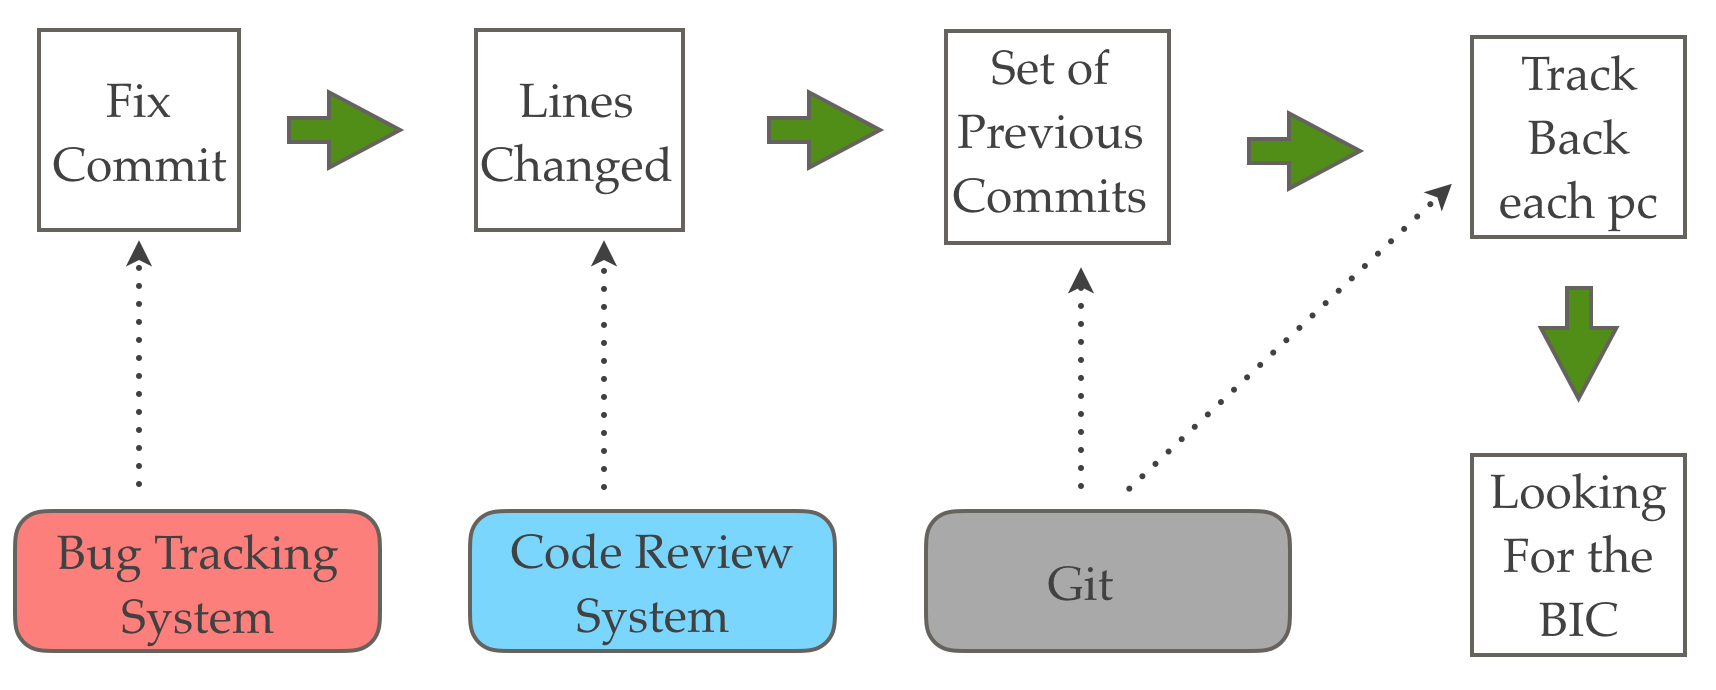
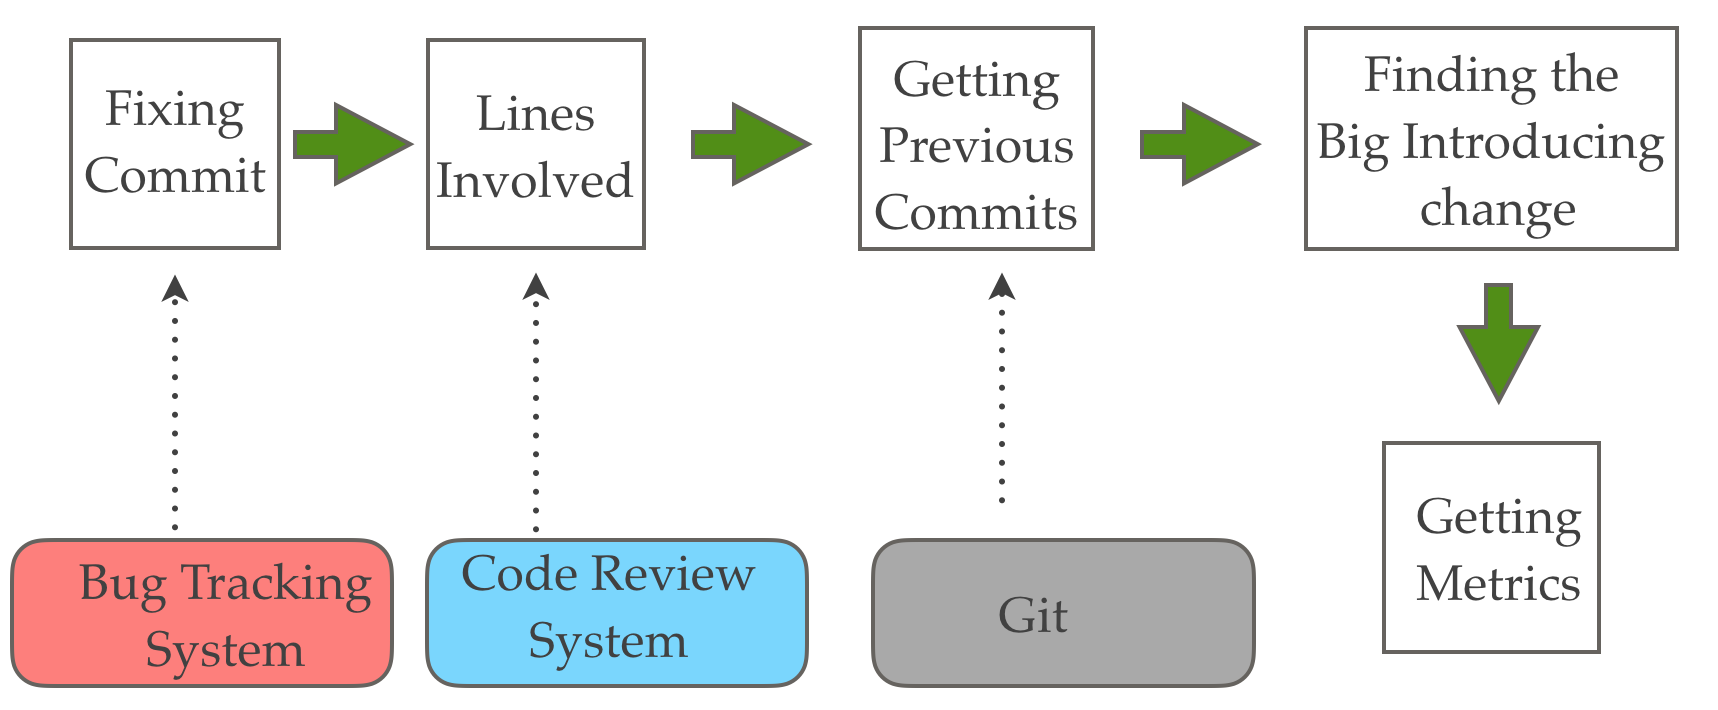
Working on the methodology section

diff --git a/bare_conf.tex b/bare_conf.tex
@@ -479,35 +479,61 @@ Prior studies~\cite{kim2006long} have proposed the \emph{Bug Fixing Time} (BFT),
 
 \section{Methodology}
 \label{sec:methodology}
-In our study the data analyzed was obtained from the source code management (Git\footnote{\url{https://git-scm.com/}}), issue tracking system (Launchpad\footnote{\url{https://launchpad.net/}}) and code review system (Gerrit\footnote{\url{https://www.gerritcodereview.com/}}). Furthermore, GitHub\footnote{\url{https://github.com/}} has been used such as issue tracking system and pull request system. GitHub and Launchpad work with issue reports called tickets, which describe bug reports, feature request, maintenance tickets, and even design discussions. In our study, however we are only interested specifically in those tickets that describe a bug report that has been fixed (i.e., merged into the code source) and closed.
+In our study the data analyzed was obtained from the source code management, issue tracking system and code review system. We will illustrate our methodology in the Figure~\ref{fig:methodology} where the income was a set of bug reports extracted randomly from the issue tracking system. Each white box present a different stage and each narrow indicates the next stage until obtain the value of the metrics. The colored box represents which source is been used to obtain the information required in each stage.
 
-In our study we analyzed bug reports extracted from two different system. 
-To compute the Time To Notify, we need to identify bug introducing changes and their corresponding fixes to be able of measure the time between them. (Example)
-\begin{figure}[ht]
-\centering
-\includegraphics[width=\columnwidth]{metrics.png}
-\caption{metrics}
-\label{fig:graph6}       % Give a unique label
-\end{figure}
+The following list is a detailed description of the stages: 
+\begin{itemize}
+		\item Finding the fixing commit of each bug report.
+		\item Finding the lines that this commit added, modified or deleted to solve the bug.
+		\item For each of those lines extract which commit added, modified or deleted last these lines to obtain the previous commit of each line.
+		\item Analyzed which one of the previous commit was the bug introducing change. In the case of none of them was the cause of the bug, track back each previous commit until find the line causing the failure in some of the antecesor commits.
+		\item Extracting the date when the fixing commit, bug introduction change and bug report was submitted, as well as the author of each one to calculate our metrics.	
+\end{itemize} 
 
 \begin{figure}[ht]
 \centering
 \includegraphics[width=\columnwidth]{methodology.png}
-\caption{methodology}
-\label{fig:graph6}       % Give a unique label
+\caption{The methodology diagram, starting with the analysis of a fix commit and finishing with the value of the metrics}
+\label{fig:methodology}       % Give a unique label
 \end{figure}
-- Explain how locate the BIC and the metrics that we have extracted after the BIC was found.
+
+\subsection{The Metrics}
+To compute all the metrics used in this study, we need to identify the bug introducing change. Once we have it, we are able to measure exactly all the time values we want without any kind of doubt.  
+
+Next, we describe all the metrics under interest in this study. Notice that the value of all this metrics has been calculated in days: 
+\begin{itemize}
+		\item \emph{Experience Until the Bug} (EUB): The time of experience that presents the author of the bug introducing change at the moment of submit such commit to the repository. The experience is measured from the first time that the author committed some code to the project until (s)he introduced the commit with the buggy line.
+		\item \emph{Time To Notify} (TTN): This value measures the time since the commit inserted the bug was merged into he master branch until some developer notified the unexpected behavior and reported it. 
+		\item \emph{Time To Fix} (TTF): It refers to the necessary time to fix a bug. This value is the period from a bug report was opened until it was closed by a fixing commit.
+		\item \emph{Bug Fixing Time} (BFT): It measures the time from the Bug Inserting change date and the fixing commit date. This time is calculated as the addition of the TTN and TTF time.
+\end{itemize} 
+
+The Figure~\ref{fig:metrics} shows when the metric under interest begins and ends. and their corresponding fixes to be able of measure the time between them. (Example)
+
+\begin{figure}[ht]
+\centering
+\includegraphics[width=\columnwidth]{metrics.png}
+\caption{ Span period of the metrics: Experience Until Bug (EUB),  Time To Notify (TTN), Time To Fix (TTF), Bug Fixing Time (BFT) }
+\label{fig:metrics}       % Give a unique label
+\end{figure}
+
+Besides this metrics, we calculate two more metrics related with the Time To Notify a bug which will be used to compare our results with the ones getting after using the SZZ algorithm. Until now, all the values have been calculated using the exactly location of the bug introducing change, but the SZZ algorithm does not locate the precise commit in which the bug was inserted, and also its outcome could be a a set of commits among which the interest commit may or may not be.
+
+To compare how the TTN obtained through SZZ algorithm differ to ours, we describe this two times:
+\begin{itemize}
+	\item \emph{Time To Notify Optimistic} (TTN\_o): It assumes that the bug introducing change was the nearest commit to the bug report date, thus it measures the time has past since such commit was done until the wrong behavior was reported.
+	\item \emph{Time To Notify Pessimistic} (TTN\_p): It assumes that the furthest commit was the bug introducing change, thus it measures the worst time possible until notify the bug.
+\end{itemize}
 
 \section{Evaluation}
 \label{sec:evaluation}
-We have validated our methodology analyzing the tickets from two different projects written in different programming languages. Nova uses a dynamic language whereas ElasticSearch uses a statically language. Thus, we may study the dependency of the results with the programming language that the project is using.
+We have validated our methodology analyzing the tickets from two different projects written in different programming languages. Nova uses a dynamic language whereas ElasticSearch uses a statically language. Thus, we may study the dependency of the Time To Notify with the programming language that the project is using.
 
-In one hand, Nova belongs to OpenStack project which is a cloud computing platform with a huge developing community (more than 5,000 developers) and significant industrial support from several major companies such as Red Hat, Intel, IBM, HP, etc. The source code of Nova is written in Python and was particularly of interest because it is continuously evolving due to its very active community. Currently it has more than 44,000 commits with more than 2 million lines of code and around 1,000 contributors \footnote{\url{http://activity.openstack.org/dash/browser/repository.html?repository=nova.git&ds=scm}}. All its history is saved and available in a version control system\footnote{\url{https://wiki.openstack.org/wiki/Getting_The_Code}}, as well as its issue tracking system (Launchpad\footnote{\url{https://launchpad.net/openstack}}) and the source code review system (Gerrit\footnote{\url{https://review.openstack.org/}}). 
+In one hand, Nova belongs to OpenStack project which is a cloud computing platform with a huge developing community (more than 5,000 developers) and significant industrial support from several major companies such as Red Hat, Intel, IBM, HP, etc. The source code of Nova is written in Python and was particularly of interest because it is continuously evolving due to its very active community. Currently it has more than 44,000 commits with more than 2 million lines of code and around 1,000 contributors \footnote{\url{http://activity.openstack.org/dash/browser/repository.html?repository=nova.git&ds=scm}}. All its code is hosted and available at GitHub\footnote{\url{https://github.com/openstack/nova}} and it works with Git\footnote{\url{https://git-scm.com/}} as the source code management, Launchpad\footnote{\url{https://launchpad.net/}} as the issue tracking system  and  Gerrit\footnote{\url{https://www.gerritcodereview.com/}} as the code review system.
 
-On the contrary, ElasticSearch is a distributed open source search and analytics engine written in Java. In spite of it has less number of commits and contributors than OpenStack, 26,000 commit and 764 contributors, its policy of label an issue as bug report is very strict, thus we could be sure that the tickets analyzed are real bug reports. Furthermore, all its code is hosted at GitHub\footnote{\url{https://github.com/elastic/elasticsearch/}}, as well as its issue list is available on GitHub\footnote{\url{https://github.com/elastic/elasticsearch/issues}}
+On the contrary, ElasticSearch is a distributed open source search and analytics engine written in Java. In spite of it has less number of commits and contributors than OpenStack, 26,000 commit and 764 contributors, its policy of label an issue as bug report is very strict, thus we could be sure that the tickets analyzed are real bug reports. Furthermore, all its code is hosted at GitHub\footnote{\url{https://github.com/elastic/elasticsearch/}} and it  has been used such as issue tracking system and pull request system in this project.
 
-
-For these two projects we analyzed the tickets looking for their trueBIC, trying to determinate if the previous commit to the fix of the ticket is a BIC. The first stage was only used in Nova due to Launchpad does not distinguish bug reports from other issues as ElasticSearch does it with its strong policy of bug label in GitHub. Thus, two different researchers, were involved in this stage, resulting that each ticket was analyzed by both researchers independently. The second stage was done manually by the first author discussing some difficult situations with two of the authors.
+In this study we used a data set created in a prior research work where we analyzed manually and in detail a total of 76 bug fixing commits of real bug reports, looking in each one for the bug introducing change that caused the failure. Thus, once we have the commit that induced the later fix, we calculate the values of the TTN, EUB, TTF and the authors of the fixing commit, the bug report, and the bug introducing change.  
 
 \section{Results}
 \label{sec:results}
